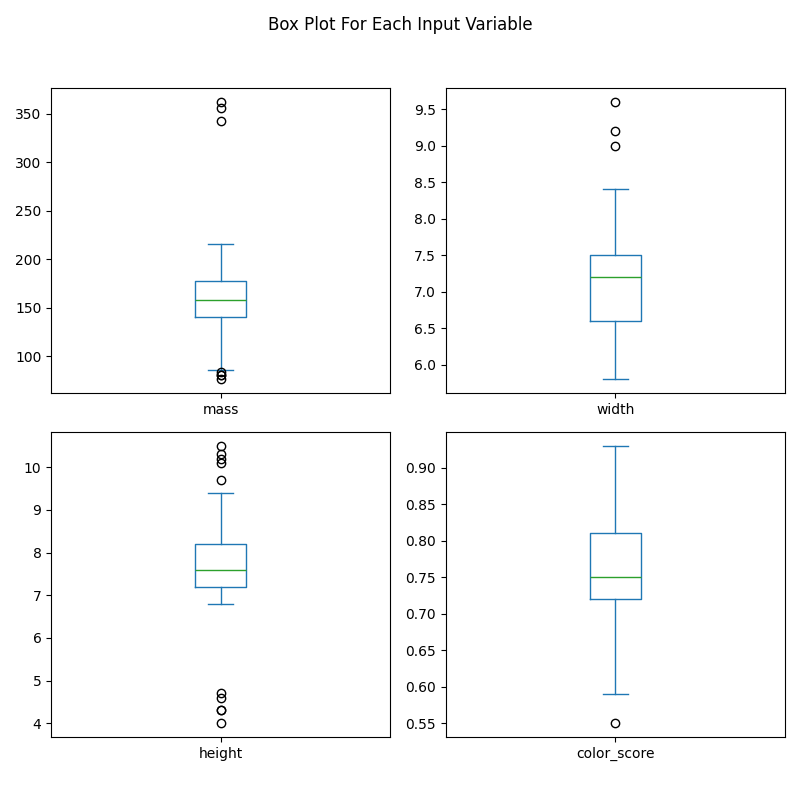
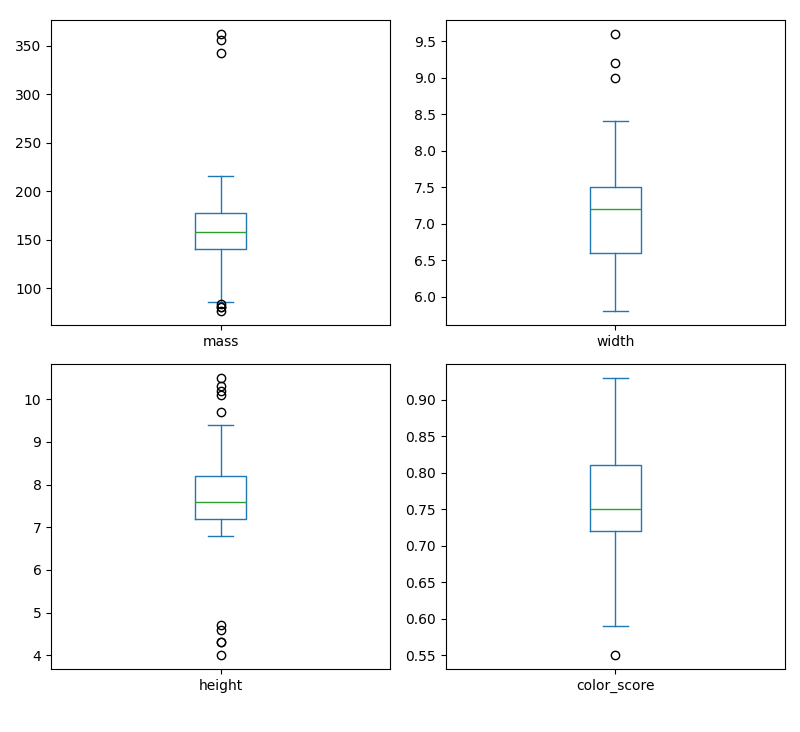
update

diff --git a/app.py b/app.py
@@ -1,7 +1,7 @@
 import streamlit as st
 import numpy as np
 import pandas as pd
-import matplotlib.pyplot as plt
+import matplotlib.pyplot as plt 
 import matplotlib.cm as cm
 from matplotlib.colors import ListedColormap
 from matplotlib import patches as mpatches
@@ -40,82 +40,13 @@ with col3:
     fruit_counts = fruits.groupby('fruit_name').size()
     st.bar_chart(fruit_counts)
 
-    # Prepare the data
-    X = fruits[['mass', 'width', 'height', 'color_score']]
-    y = fruits['fruit_label']
-
-
-    # Split the data into training and testing sets
-    X_train, X_test, y_train, y_test = train_test_split(X, y, random_state=0)
-
-    def plot_fruit_knn(X, y, n_neighbors, weights):
-        X_mat = X[['height', 'width']].to_numpy()  
-        y_mat = y.to_numpy()
-
-        # Create color maps
-        cmap_light = ListedColormap(['#E41100', '#FF8A89', '#FF7F1A', '#FFE785'])
-        cmap_bold = ListedColormap(['#E41100', '#FF8A89', '#FF7F1A', '#FFE785'])
-
-        # Initialize and train the KNN classifier
-        clf = neighbors.KNeighborsClassifier(n_neighbors, weights=weights)
-        clf.fit(X_mat, y_mat)
-
-        # Plot decision boundary
-        mesh_step_size = .01  # Step size in the mesh
-        plot_symbol_size = 50
-
-        x_min, x_max = X_mat[:, 0].min() - 1, X_mat[:, 0].max() + 1
-        y_min, y_max = X_mat[:, 1].min() - 1, X_mat[:, 1].max() + 1
-        xx, yy = np.meshgrid(np.arange(x_min, x_max, mesh_step_size),
-                            np.arange(y_min, y_max, mesh_step_size))
-        Z = clf.predict(np.c_[xx.ravel(), yy.ravel()])
-
-        # Put the result into a color plot
-        Z = Z.reshape(xx.shape)
-        plt.figure(figsize=(8, 6))
-        plt.pcolormesh(xx, yy, Z, cmap=cmap_light)
-
-        plt.scatter(X_mat[:, 0], X_mat[:, 1], s=plot_symbol_size, c=y, cmap=cmap_bold, edgecolor='black')
-        plt.xlim(xx.min(), xx.max())
-        plt.ylim(yy.min(), yy.max())
-
-        # Create legend
-        patch0 = mpatches.Patch(color='#E41100', label='Apple')
-        patch1 = mpatches.Patch(color='#FF8A89', label='Banana')
-        patch2 = mpatches.Patch(color='#FF7F1A', label='Orange')
-        patch3 = mpatches.Patch(color='#FFE785', label='Grape')
-
-
-        # Show the plot in Streamlit
-        st.pyplot(plt)
-        plt.close()  # Close the figure to avoid display issues
-
     # Display the KNN plot
     st.subheader("KNN Decision Boundary")
-    plot_fruit_knn(X_train, y_train, 5, 'uniform')
+    st.image('knn.png')
 
 with col4:
-    # Optional: Create a scatter plot
-    st.subheader("Scatter Plot of Fruit Dimensions")
-    fig, ax = plt.subplots()
-    ax.scatter(fruits['width'], fruits['height'], c=fruits['color_score'], cmap='viridis')
-    ax.set_xlabel('Width')
-    ax.set_ylabel('Height')
-    ax.set_title('Fruit Dimensions')
-    st.pyplot(fig)
+    st.subheader("Box Plot")
+    st.image('fruits_boxfig.png')
 
-    # Create box plots
-    st.subheader("Box Plot For Each Input Variable")
-
-    # Drop 'fruit_label' and create box plots for numeric columns
-    fig, axs = plt.subplots(2, 2, figsize=(8, 8))
-    fruits.drop('fruit_label', axis=1).plot(kind='box', subplots=True, layout=(2, 2), 
-                                            sharex=False, sharey=False, ax=axs.flatten())
-
-    # Set the title for the plot
-    plt.suptitle('Box Plot For Each Input Variable')
-    plt.tight_layout(rect=[0, 0.03, 1, 0.95])  # Adjust layout to make room for the title
-
-    # Save the figure to a file and display it
-    plt.savefig('fruits_boxfig.png')
-    st.pyplot(fig) 
+    st.subheader("Scatter-Matrix")
+    st.image('scatter.png')
